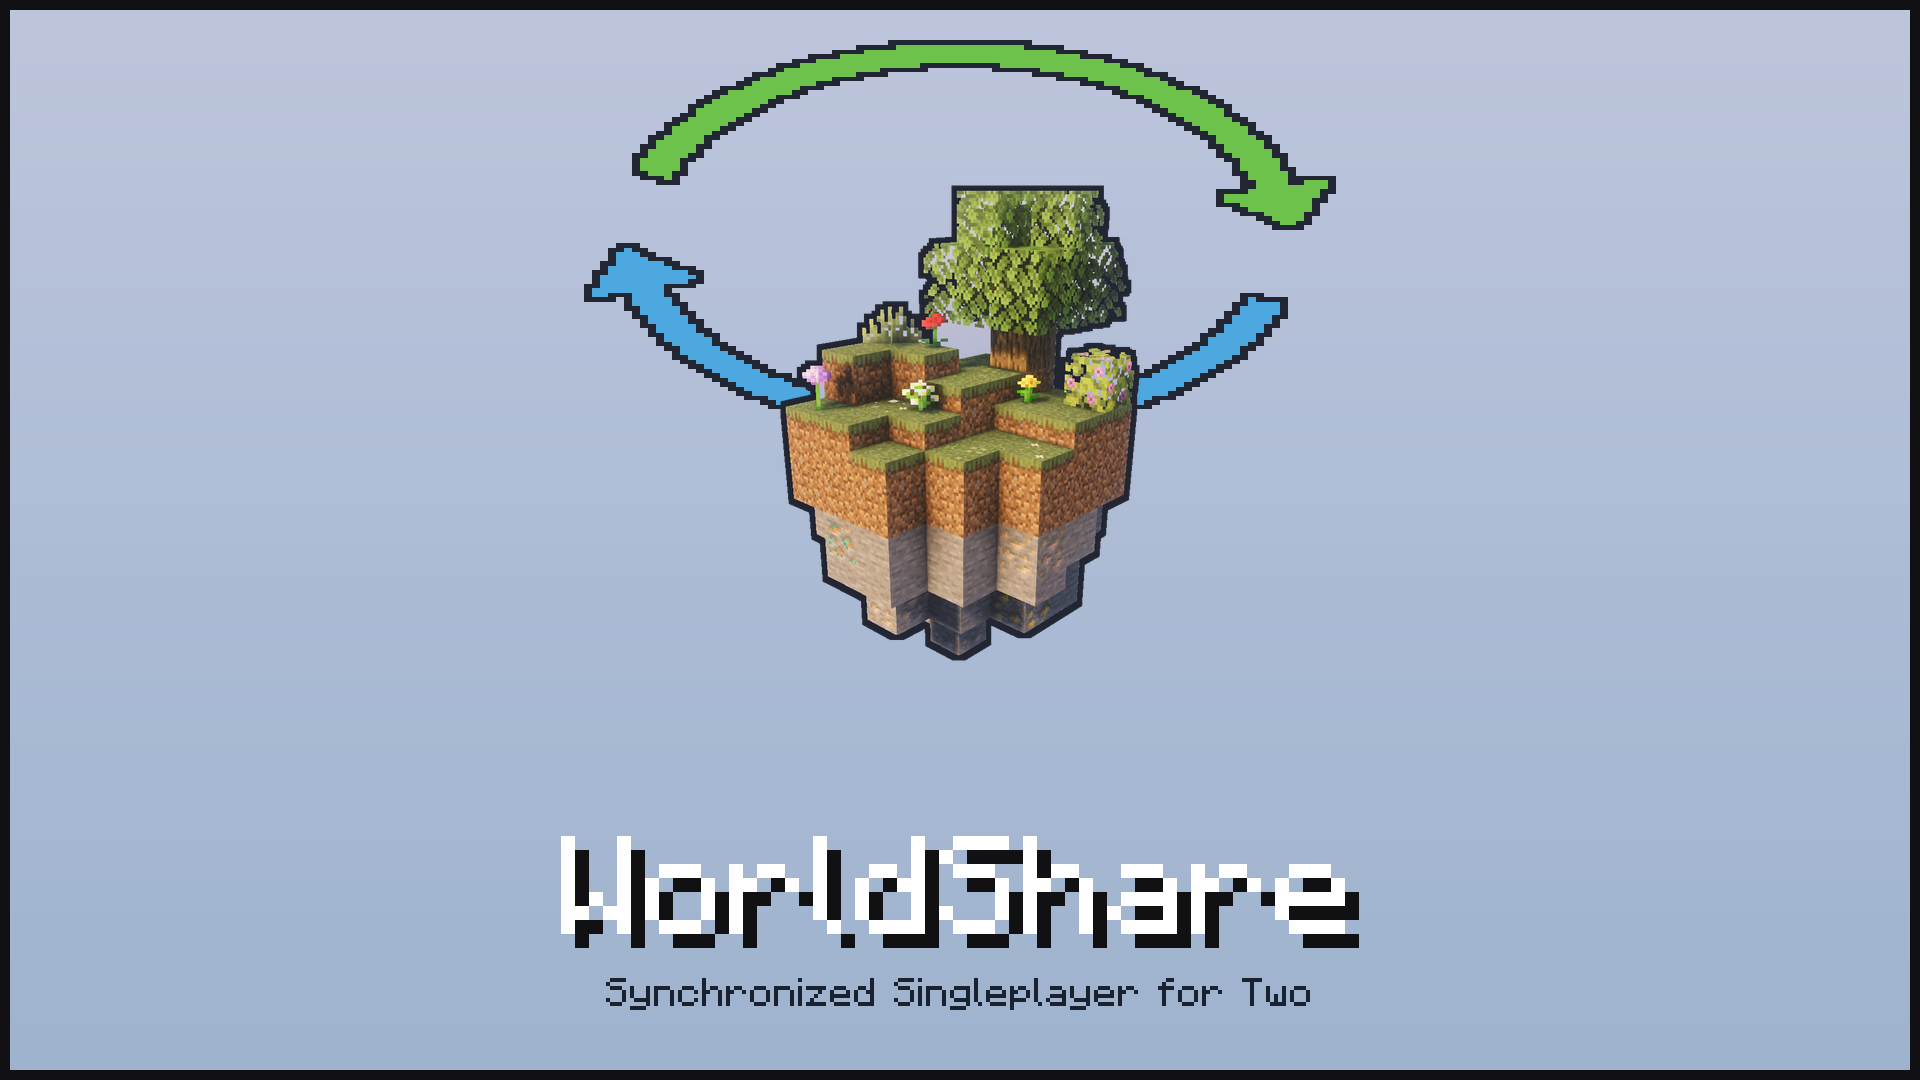
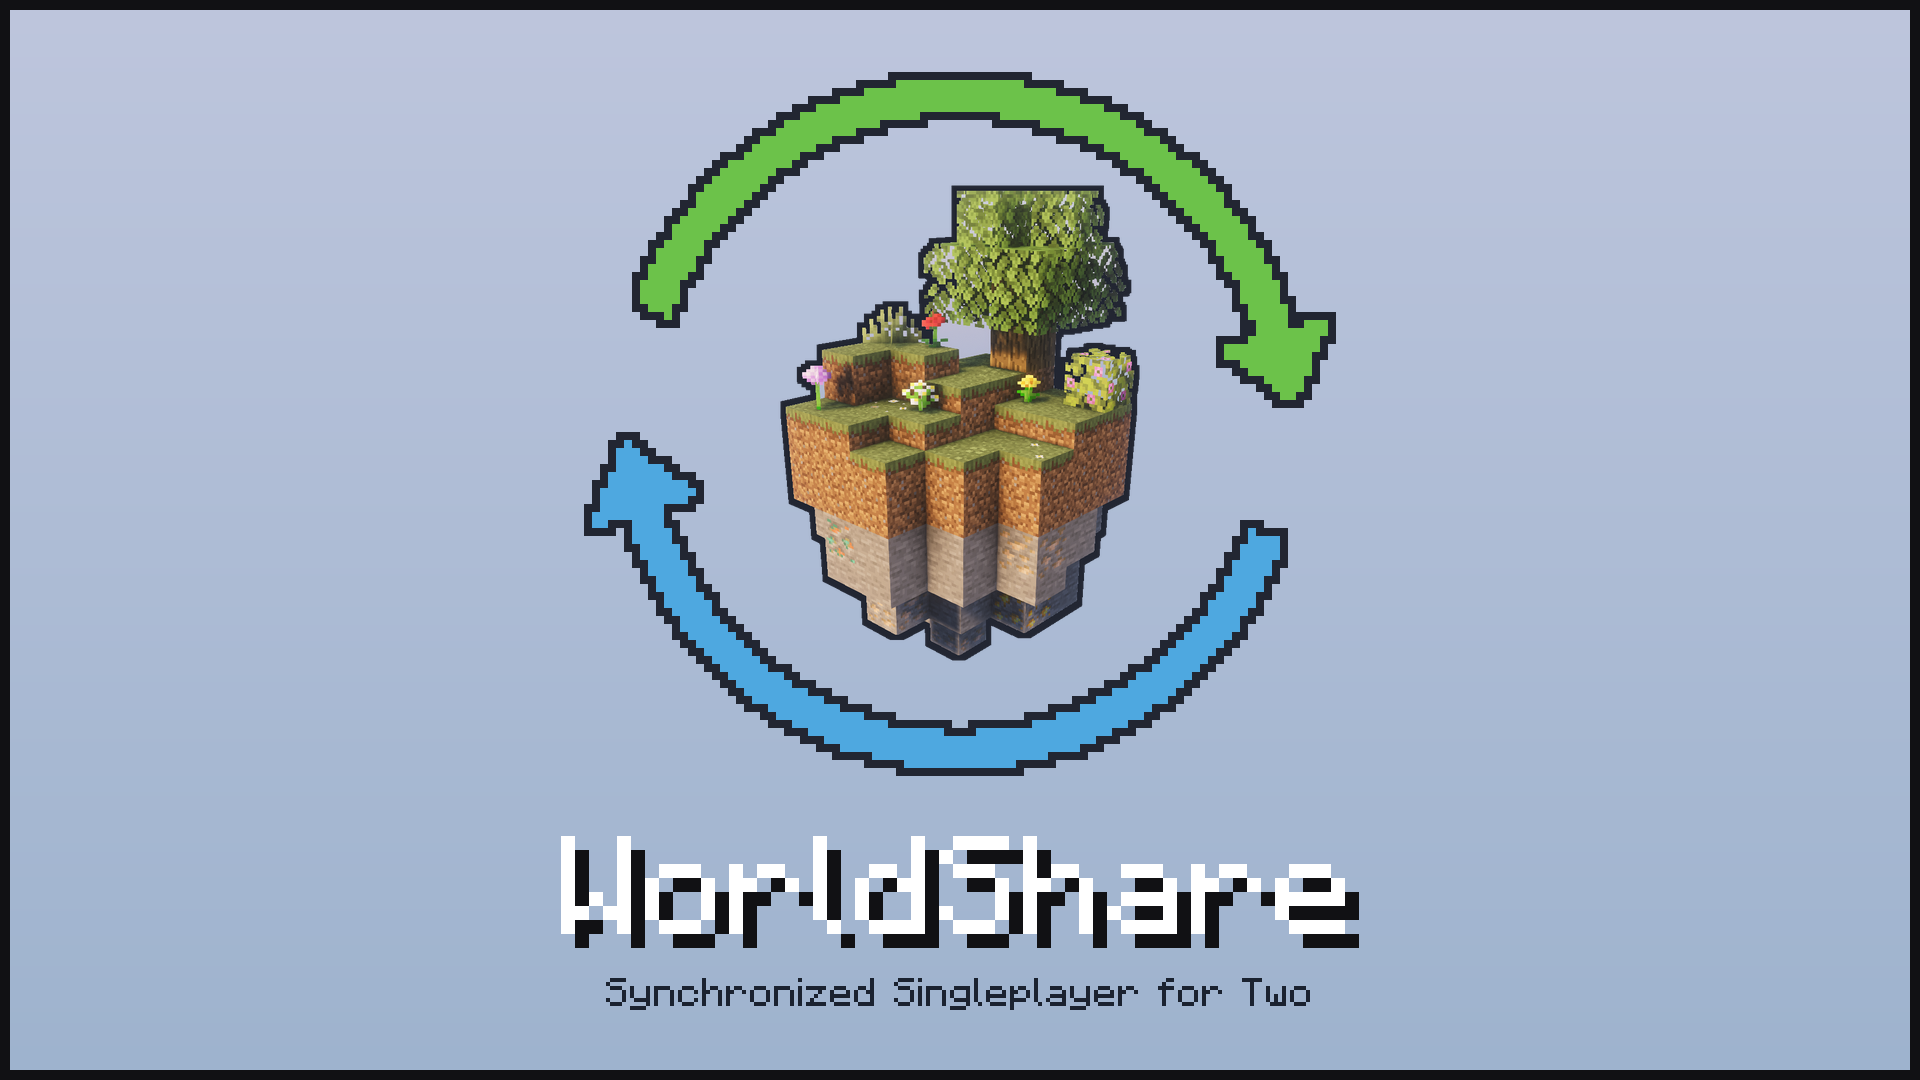
Give the ring's grid the canvas aspect
sync_ring composed on a square g x g grid and then resized that to the canvas.
While the banner was square this was 1:1 and invisible. At 1920x1080 the
240x240 grid was scaled 8x across and 4.5x down, so the ring came out
flattened and its centre climbed from y=540 to y=304 - the arrows sat above
the island with the lower arc hidden behind it, instead of circling it.

Two grid dimensions now, one scale factor. _arrow_mask takes gw and gh rather
than assuming a square.

Caught by diffing the new banner against the old one side by side, which is
the check that should have run before the previous commit claimed the
composition was unchanged.

Changed region(s): [[0.2812, 0.0306, 0.7188, 0.3972], [0.2812, 0.3972, 0.6875, 0.7333]]

diff --git a/docs/branding/make_banner.py b/docs/branding/make_banner.py
@@ -210,8 +210,8 @@ def _tri(xx, yy, p0, p1, p2):
     return ~(neg & pos)
 
 
-def _arrow_mask(g, cx, cy, radius, a0_deg, a1_deg, width, head_scale=2.1):
-    """Boolean mask of one arc-with-arrowhead on a g x g grid.
+def _arrow_mask(gw, gh, cx, cy, radius, a0_deg, a1_deg, width, head_scale=2.1):
+    """Boolean mask of one arc-with-arrowhead on a gw x gh grid.
 
     Built by testing every cell against the shape rather than by stamping
     overlapping discs along the path. Discs gave a stroke that bulged and
@@ -219,7 +219,7 @@ def _arrow_mask(g, cx, cy, radius, a0_deg, a1_deg, width, head_scale=2.1):
     lumpiness that stops pixel art looking deliberate. A band between two radii
     is the same width everywhere by construction.
     """
-    yy, xx = np.mgrid[0:g, 0:g].astype(float)
+    yy, xx = np.mgrid[0:gh, 0:gw].astype(float)
     yy += 0.5
     xx += 0.5
     dx, dy = xx - cx, yy - cy
@@ -256,15 +256,21 @@ def sync_ring(size, cx, cy, radius, width, pix=PIXEL_SIZE):
     treatment the island gets, so the two sit together instead of looking like
     a drawing laid over a photograph.
     """
-    g = max(32, size[0] // pix)
-    sx = g / float(size[0])
+    # The grid has to carry the canvas's aspect. It used to be square, which
+    # was invisible while the banner was square and wrong the moment it was
+    # not: a 240x240 grid resized to 1920x1080 is scaled 8x across and 4.5x
+    # down, so the ring came out flattened and its centre climbed from y=540
+    # to y=304. One scale factor, two grid dimensions.
+    gw = max(32, size[0] // pix)
+    gh = max(32, size[1] // pix)
+    sx = gw / float(size[0])
 
-    green = _arrow_mask(g, cx * sx, cy * sx, radius * sx, 200, 344, width * sx)
-    blue = _arrow_mask(g, cx * sx, cy * sx, radius * sx, 20, 164, width * sx)
+    green = _arrow_mask(gw, gh, cx * sx, cy * sx, radius * sx, 200, 344, width * sx)
+    blue = _arrow_mask(gw, gh, cx * sx, cy * sx, radius * sx, 20, 164, width * sx)
     shape = green | blue
     outline = ndimage.binary_dilation(shape, np.ones((3, 3))) & ~shape
 
-    rgba = np.zeros((g, g, 4), dtype=np.uint8)
+    rgba = np.zeros((gh, gw, 4), dtype=np.uint8)
     rgba[outline] = (*OUTLINE_INK, 255)
     rgba[green] = (*ARROW_GREEN, 255)
     rgba[blue] = (*ARROW_BLUE, 255)
